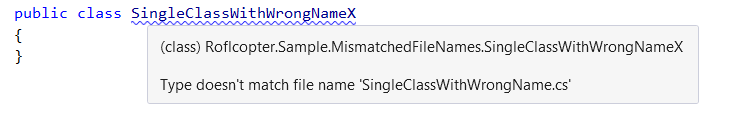
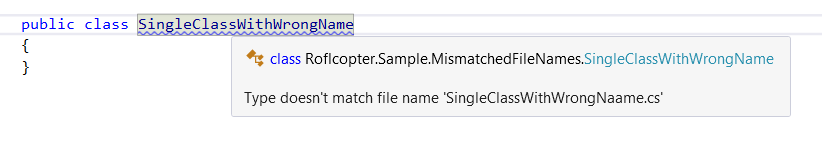
Add quick fix for "Mismatch between type and file name"

diff --git a/Src/Roflcopter.Plugin.Tests/MismatchedFileNames/MismatchedFileNameHighlightingQuickFixTest.cs b/Src/Roflcopter.Plugin.Tests/MismatchedFileNames/MismatchedFileNameHighlightingQuickFixTest.cs
@@ -1,0 +1,77 @@
+using System.Collections.Generic;
+using System.IO;
+using JetBrains.Annotations;
+using JetBrains.ProjectModel;
+using JetBrains.ReSharper.Feature.Services.QuickFixes;
+using JetBrains.ReSharper.FeaturesTestFramework.Intentions;
+using JetBrains.ReSharper.TestFramework;
+using JetBrains.TextControl;
+using NUnit.Framework;
+using Roflcopter.Plugin.MismatchedFileNames;
+
+namespace Roflcopter.Plugin.Tests.MismatchedFileNames
+{
+    [TestFixture]
+    [TestNetFramework4]
+    public class MismatchedFileNameHighlightingQuickFixTest : CSharpQuickFixTestBase<MismatchedFileNameHighlightingQuickFixTest.TestQuickFix>
+    {
+        private TestQuickFix _quickFix;
+
+        protected override string RelativeTestDataPath => Path.Combine(nameof(MismatchedFileNames), "QuickFix");
+
+        [CanBeNull]
+        protected override IQuickFix CreateQuickFix(IProject project, ITextControl textControl)
+        {
+            _quickFix = (TestQuickFix) base.CreateQuickFix(project, textControl);
+            return _quickFix;
+        }
+
+        [Test]
+        public void SomeClassWithWrongName()
+        {
+            DoNamedTest();
+
+            Assert.That(_quickFix.RenameFileActions, Is.EqualTo(new[] { "SomeClassWithWrongName.cs => SomeClass.cs" }));
+            Assert.That(_quickFix.Errors, Is.Empty);
+        }
+
+        [Test]
+        public void SomeClassWithWrongName_ButExistingFile()
+        {
+            DoTestFiles(nameof(SomeClassWithWrongName) + ".cs", "SomeClass.cs");
+
+            Assert.That(_quickFix.Errors, Is.EqualTo(new[] { "Can't rename 'SomeClassWithWrongName.cs': A file 'SomeClass.cs' already exists." }));
+            Assert.That(_quickFix.RenameFileActions, Is.Empty);
+        }
+
+        [Test]
+        public void SingleClassWithWrongCaSiNg()
+        {
+            DoNamedTest();
+
+            Assert.That(_quickFix.RenameFileActions, Is.EqualTo(new[] { "SingleClassWithWrongCaSiNg.cs => SingleClassWithWrongCasing.cs" }));
+            Assert.That(_quickFix.Errors, Is.Empty);
+        }
+
+        [QuickFix]
+        public class TestQuickFix : MismatchedFileNameHighlightingQuickFixBase
+        {
+            public TestQuickFix(MismatchedFileNameHighlighting highlighting) : base(highlighting)
+            {
+            }
+
+            public IList<string> RenameFileActions { get; } = new List<string>();
+            public List<string> Errors { get; } = new List<string>();
+
+            protected override void RenameFile(ISolution solution, IProjectFile projectFile, string newFileName)
+            {
+                RenameFileActions.Add($"{projectFile.Name} => {newFileName}");
+            }
+
+            protected override void ShowError(string text, string caption)
+            {
+                Errors.Add($"{caption}: {text}");
+            }
+        }
+    }
+}

diff --git a/Src/Roflcopter.Plugin/MismatchedFileNames/MismatchedFileNameHighlightingQuickFixBase.cs b/Src/Roflcopter.Plugin/MismatchedFileNames/MismatchedFileNameHighlightingQuickFixBase.cs
@@ -1,0 +1,54 @@
+using System;
+using JetBrains.Annotations;
+using JetBrains.Application.Progress;
+using JetBrains.ProjectModel;
+using JetBrains.ReSharper.Feature.Services.QuickFixes;
+using JetBrains.ReSharper.Psi;
+using JetBrains.TextControl;
+using JetBrains.Util;
+
+namespace Roflcopter.Plugin.MismatchedFileNames
+{
+    public abstract class MismatchedFileNameHighlightingQuickFixBase : QuickFixBase
+    {
+        private readonly MismatchedFileNameHighlighting _highlighting;
+
+        protected MismatchedFileNameHighlightingQuickFixBase(MismatchedFileNameHighlighting highlighting)
+        {
+            _highlighting = highlighting;
+        }
+
+        public override string Text => $"Rename file to '{_highlighting.ExpectedFileName}'";
+
+        public override bool IsAvailable(IUserDataHolder cache) => true;
+
+        [CanBeNull]
+        protected override Action<ITextControl> ExecutePsiTransaction(ISolution solution, IProgressIndicator progress)
+        {
+            var newFileName = _highlighting.ExpectedFileName;
+#if RS20171
+            var isOnlyACasingRenaming = StringComparer.OrdinalIgnoreCase.Equals(newFileName, _highlighting.CurrentFileName);
+#else
+            var isOnlyACasingRenaming = FileSystemDefinition.PathStringEquality.Equals(newFileName, _highlighting.CurrentFileName);
+#endif
+
+            var psiSourceFile = _highlighting.TreeNode.GetSourceFile();
+            var projectFile = psiSourceFile.ToProjectFile().NotNull("psiSourceFile.ToProjectFile() != null");
+
+            return _ =>
+            {
+                if (!isOnlyACasingRenaming && projectFile.Location.Directory.Combine(newFileName).ExistsFile)
+                {
+                    ShowError($"A file '{newFileName}' already exists.", $"Can't rename '{projectFile.Location.Name}'");
+                }
+                else
+                {
+                    RenameFile(solution, projectFile, newFileName);
+                }
+            };
+        }
+
+        protected abstract void RenameFile(ISolution solution, IProjectFile projectFile, string newFileName);
+        protected abstract void ShowError(string text, string caption);
+    }
+}

diff --git a/Src/Roflcopter.Plugin/MismatchedFileNames/MismatchedFileNameElementProblemAnalyzer.cs b/Src/Roflcopter.Plugin/MismatchedFileNames/MismatchedFileNameElementProblemAnalyzer.cs
@@ -1,4 +1,5 @@
-using System.Text.RegularExpressions;
+using System.IO;
+using System.Text.RegularExpressions;
 using JetBrains.Annotations;
 using JetBrains.Application.Settings;
 using JetBrains.ReSharper.Daemon.Stages.Dispatcher;
@@ -22,12 +23,16 @@ namespace Roflcopter.Plugin.MismatchedFileNames
             {
                 var psiSourceFile = file.GetSourceFile().NotNull("file.GetSourceFile() != null");
 
-                var allowedFileNamePostfixRegex = data.SettingsStore.GetValue((MismatchedFileNamesSettings s) => s.AllowedFileNamePostfixRegex);
-                var fileNameWithoutPostfix = Regex.Replace(psiSourceFile.Name, allowedFileNamePostfixRegex, "");
+                var fileName = psiSourceFile.Name;
 
-                if (fileNameWithoutPostfix != mainTypeDeclaration.DeclaredName)
+                var allowedFileNamePostfixRegex = data.SettingsStore.GetValue((MismatchedFileNamesSettings s) => s.AllowedFileNamePostfixRegex);
+
+                var fileNameWithReplacedPostfix = Regex.Replace(fileName, allowedFileNamePostfixRegex, Path.GetExtension(fileName));
+                var expectedFileName = mainTypeDeclaration.DeclaredName + Path.GetExtension(fileName);
+
+                if (fileNameWithReplacedPostfix != expectedFileName)
                 {
-                    consumer.AddHighlighting(new MismatchedFileNameHighlighting(mainTypeDeclaration, psiSourceFile.Name));
+                    consumer.AddHighlighting(new MismatchedFileNameHighlighting(mainTypeDeclaration, fileName, expectedFileName));
                 }
             }
         }

diff --git a/Src/Roflcopter.Plugin.Tests/MismatchedFileNames/MismatchedFileNameHighlightingTests.cs b/Src/Roflcopter.Plugin.Tests/MismatchedFileNames/MismatchedFileNameHighlightingTests.cs
@@ -20,6 +20,9 @@ namespace Roflcopter.Plugin.Tests.MismatchedFileNames
         public void SingleClassWithWrongName() => DoNamedTest();
 
         [Test]
+        public void SingleClassWithWrongCaSiNg() => DoNamedTest();
+
+        [Test]
         public void MultipleClasses() => DoNamedTest();
 
         [Test]
@@ -38,10 +41,13 @@ namespace Roflcopter.Plugin.Tests.MismatchedFileNames
         public void InterfaceAndClassPairWithWrongName() => DoNamedTest();
 
         [Test]
-        public void PartialClass_partial() => DoNamedTest("PartialClass.InvalidPostfix.cs");
+        public void PartialClass() => DoNamedTest(nameof(PartialClass_partial) + ".cs", nameof(PartialClass_InvalidPostfix) + ".cs");
 
         [Test]
-        public void PartialClass_InvalidPostfix() => DoNamedTest("PartialClass.partial.cs");
+        public void PartialClass_partial() => DoNamedTest(nameof(PartialClass) + ".cs", nameof(PartialClass_InvalidPostfix) + ".cs");
+
+        [Test]
+        public void PartialClass_InvalidPostfix() => DoNamedTest(nameof(PartialClass) + ".cs", nameof(PartialClass_partial) + ".cs");
 
         protected override void DoTestSolution([NotNull] params string[] fileSet) =>
             base.DoTestSolution(fileSet.Select(x => x.Replace('_', '.')).ToArray());

diff --git a/Src/Roflcopter.Plugin/MismatchedFileNames/MismatchedFileNameHighlightingQuickFix.cs b/Src/Roflcopter.Plugin/MismatchedFileNames/MismatchedFileNameHighlightingQuickFix.cs
@@ -1,0 +1,29 @@
+using System.Diagnostics.CodeAnalysis;
+using JetBrains.DocumentManagers.Transactions;
+using JetBrains.ProjectModel;
+using JetBrains.ReSharper.Feature.Services.QuickFixes;
+using JetBrains.Util;
+
+namespace Roflcopter.Plugin.MismatchedFileNames
+{
+    [QuickFix]
+    [ExcludeFromCodeCoverage]
+    public class MismatchedFileNameHighlightingQuickFix : MismatchedFileNameHighlightingQuickFixBase
+    {
+        public MismatchedFileNameHighlightingQuickFix(MismatchedFileNameHighlighting highlighting) :
+            base(highlighting)
+        {
+        }
+
+        protected override void RenameFile(ISolution solution, IProjectFile projectFile, string newFileName)
+        {
+            using (var transactionCookie = solution.CreateTransactionCookie(DefaultAction.Commit, commandName: Text))
+                transactionCookie.Rename(projectFile, newFileName);
+        }
+
+        protected override void ShowError(string text, string caption)
+        {
+            MessageBox.ShowError(text, caption);
+        }
+    }
+}

diff --git a/Src/Roflcopter.Plugin/MismatchedFileNames/MismatchedFileNameHighlighting.cs b/Src/Roflcopter.Plugin/MismatchedFileNames/MismatchedFileNameHighlighting.cs
@@ -28,10 +28,15 @@ namespace Roflcopter.Plugin.MismatchedFileNames
 
         public const string Description = Title;
 
-        public MismatchedFileNameHighlighting(ITypeDeclaration declaration, string fileName)
-            : base(declaration, string.Format(Message, fileName))
+        public MismatchedFileNameHighlighting(ITypeDeclaration declaration, string currentFileName, string expectedFileName)
+            : base(declaration, string.Format(Message, currentFileName))
         {
+            CurrentFileName = currentFileName;
+            ExpectedFileName = expectedFileName;
         }
+
+        public string CurrentFileName { get; }
+        public string ExpectedFileName { get; }
 
         public override DocumentRange CalculateRange() => TreeNode.GetNameDocumentRange();
     }

diff --git a/Src/Roflcopter.Plugin.Tests/test/data/MismatchedFileNames/QuickFix/SingleClassWithWrongCaSiNg.cs b/Src/Roflcopter.Plugin.Tests/test/data/MismatchedFileNames/QuickFix/SingleClassWithWrongCaSiNg.cs
@@ -1,0 +1,6 @@
+namespace Roflcopter.Sample.MismatchedFileNames.QuickFix
+{
+    public class SingleClassWithWrongCasing{caret}
+    {
+    }
+}

diff --git a/Src/Roflcopter.Plugin.Tests/test/data/MismatchedFileNames/SingleClassWithWrongCaSiNg.cs b/Src/Roflcopter.Plugin.Tests/test/data/MismatchedFileNames/SingleClassWithWrongCaSiNg.cs
@@ -1,0 +1,6 @@
+namespace Roflcopter.Sample.MismatchedFileNames
+{
+    public class SingleClassWithWrongCasing
+    {
+    }
+}

diff --git a/Src/Roflcopter.Plugin.Tests/test/data/MismatchedFileNames/QuickFix/SomeClassWithWrongName.cs b/Src/Roflcopter.Plugin.Tests/test/data/MismatchedFileNames/QuickFix/SomeClassWithWrongName.cs
@@ -1,0 +1,6 @@
+namespace Roflcopter.Sample.MismatchedFileNames.QuickFix
+{
+    public class SomeClass{caret}
+    {
+    }
+}

diff --git a/Src/Roflcopter.Plugin.Tests/test/data/MismatchedFileNames/PartialClass.cs b/Src/Roflcopter.Plugin.Tests/test/data/MismatchedFileNames/PartialClass.cs
@@ -1,0 +1,6 @@
+namespace Roflcopter.Sample.MismatchedFileNames
+{
+    public partial class PartialClass
+    {
+    }
+}

diff --git a/Src/Roflcopter.Plugin.Tests/test/data/MismatchedFileNames/QuickFix/SomeClass.cs b/Src/Roflcopter.Plugin.Tests/test/data/MismatchedFileNames/QuickFix/SomeClass.cs
@@ -1,0 +1,6 @@
+namespace Roflcopter.Sample.MismatchedFileNames.QuickFix
+{
+    public class SomeClass
+    {
+    }
+}

diff --git a/README.md b/README.md
@@ -26,7 +26,9 @@ Roflcopter also provides default Live Template, just type `branch` and hit TAB.
 
 ### "Mismatch between type and file name" warning
 
-<img src="/Doc/MismatchedFileName.png" alt="MismatchedFileName" width="580" />
+<img src="/Doc/MismatchedFileName.png" alt="MismatchedFileName" width="657" />
+
+<img src="/Doc/MismatchedFileNameQuickFix.png" alt="MismatchedFileNameQuickFix" width="410" />
 
 Allowed file name postfixes can be configured on the "Mismatched file names" options page.
 
